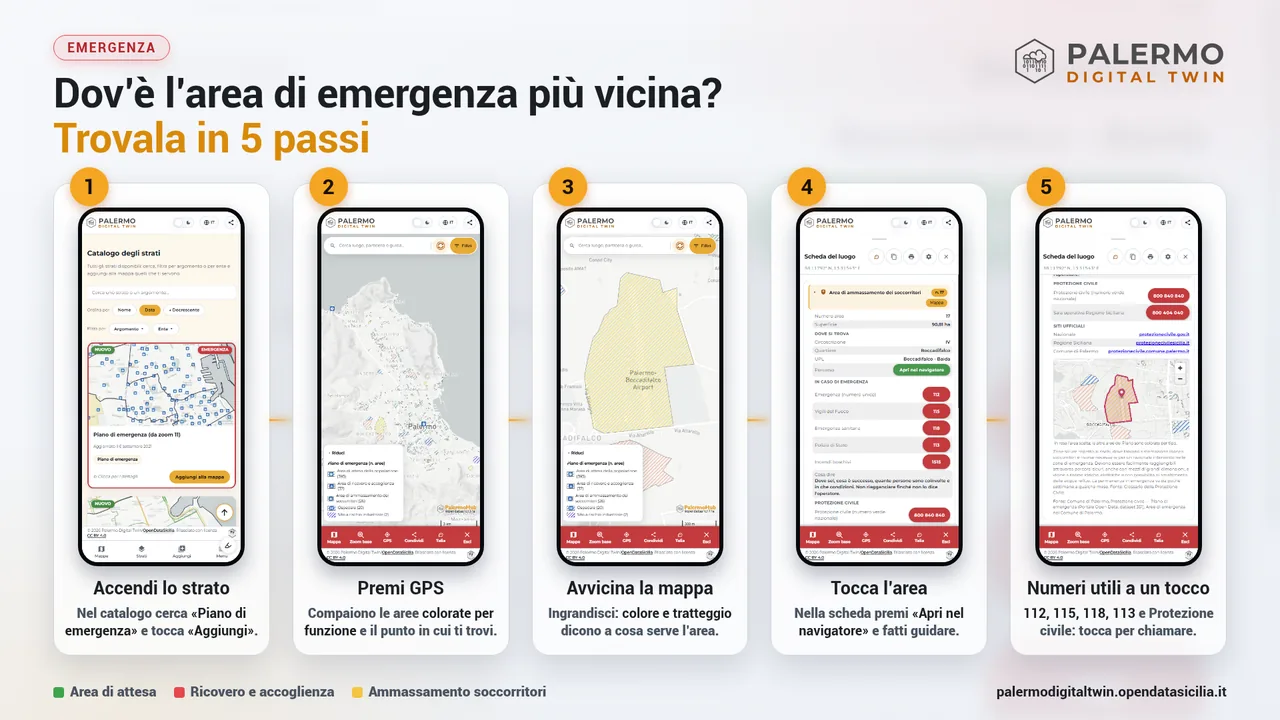
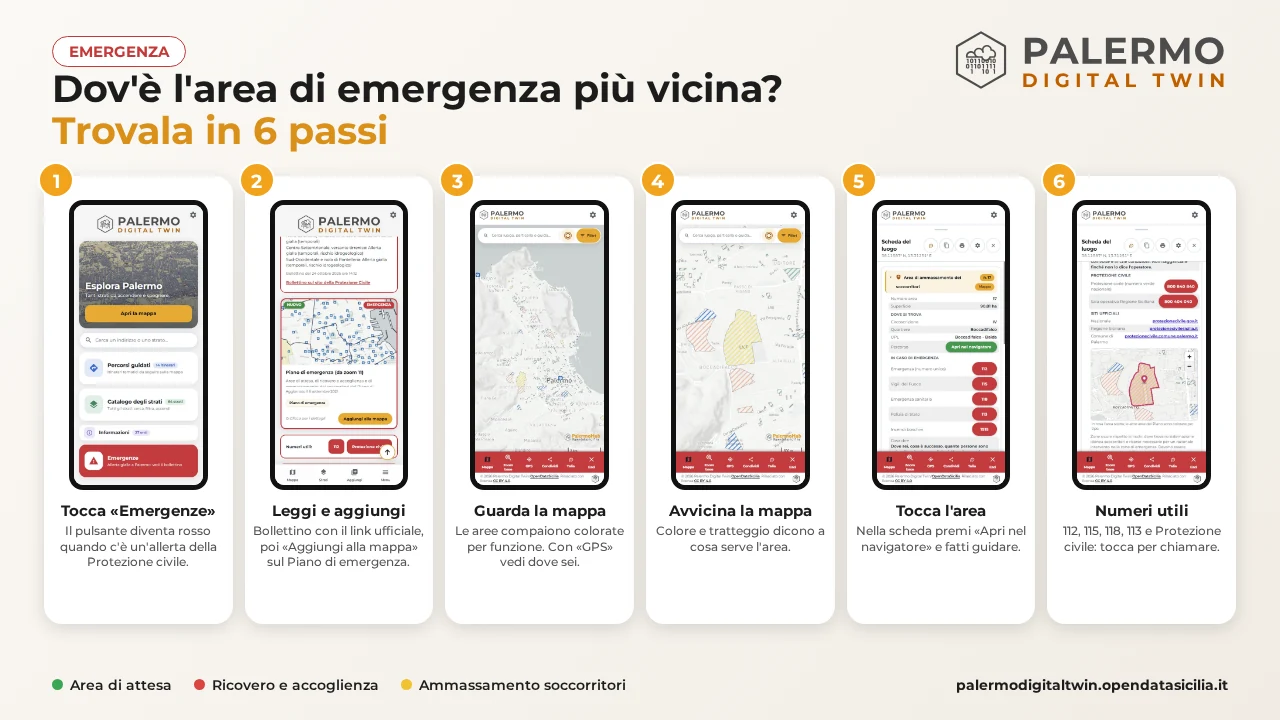
upgrade

diff --git a/js/core/emergenza-contenuti.js b/js/core/emergenza-contenuti.js
@@ -5,53 +5,62 @@ export const SEZIONI = [
     id: 'a-cosa-serve',
     titolo: 'A cosa serve',
     paragrafi: [
-      'La modalità emergenza serve a una cosa sola: **trovare in fretta**, dal telefono, **l\'area del Piano di emergenza** della Protezione civile più vicina a te e **farti guidare fin lì**. **Si accende da sola** quando sul telefono è acceso lo strato «Piano di emergenza»: l\'app si semplifica e restano solo gli strumenti utili.',
-      'Bastano **cinque passi**, qui sotto spiegati uno per uno con la schermata del telefono.',
+      'La modalità emergenza serve a una cosa sola: **trovare in fretta**, dal telefono, **l\'area del Piano di emergenza** della Protezione civile più vicina a te e **farti guidare fin lì**. Si parte dal pulsante **«Emergenze»** della home; sul telefono, quando lo strato «Piano di emergenza» è acceso, **l\'app si semplifica** e restano solo gli strumenti utili.',
+      'Bastano **sei passi**, qui sotto spiegati uno per uno con la schermata del telefono.',
     ],
-    immagine: { file: 'img/guida/passi/modalita-emergenza.webp', alt: 'Le cinque schermate della modalità emergenza in fila: il catalogo con lo strato Piano di emergenza, la mappa con le aree colorate e la barra rossa, l\'area ingrandita, la scheda con il pulsante «Apri nel navigatore» e i numeri utili con la mappa dell\'area.', didascalia: 'Le aree di emergenza in cinque passi, dal telefono.' },
+    immagine: { file: 'img/guida/passi/modalita-emergenza.webp', alt: 'Le sei schermate della modalità emergenza in fila: la home con il pulsante Emergenze, il pannello con il bollettino e lo strato Piano di emergenza, la mappa con le aree colorate e la barra rossa, l\'area ingrandita, la scheda con il pulsante «Apri nel navigatore» e i numeri utili con la mappa dell\'area.', didascalia: 'Le aree di emergenza in sei passi, dal telefono.' },
   },
   {
-    id: 'accendi-lo-strato',
-    titolo: '1. Accendi lo strato',
+    id: 'tocca-emergenze',
+    titolo: '1. Tocca «Emergenze»',
     paragrafi: [
-      'Nel catalogo degli strati cerca **«Piano di emergenza»** e tocca **«Aggiungi alla mappa»**. Sul telefono la **barra in basso diventa rossa** e ha solo sei pulsanti: **«Mappa»**, **«Zoom base»** (riporta la mappa su tutta Palermo), **«GPS»**, **«Condividi»**, **«Talia»** ed **«Esci»**.',
+      'Dalla home tocca il pulsante **«Emergenze»**, in fondo. Qui **arrivano le notifiche dei bollettini della Protezione civile**: quando a Palermo c\'è un\'allerta, **il pulsante diventa rosso** e il sottotitolo dice quale (per esempio «Allerta gialla a Palermo: vedi il bollettino»). Senza allerta resta bianco con il bordo rosso.',
+    ],
+    immagine: { file: 'img/guida/passi/modalita-emergenza-1-emergenze.webp', alt: 'La home sul telefono con il pulsante rosso «Emergenze» in fondo e il sottotitolo «Allerta gialla a Palermo: vedi il bollettino».', didascalia: 'Il pulsante «Emergenze» diventa rosso quando c\'è un\'allerta.' },
+  },
+  {
+    id: 'leggi-il-bollettino',
+    titolo: '2. Leggi il bollettino e aggiungi lo strato',
+    paragrafi: [
+      'Si apre il pannello. In cima trovi il **bollettino**: **il tipo di avviso** per ogni zona (per esempio «Allerta gialla (temporali, rischio idrogeologico)»), la data e l\'ora del bollettino e il link **«Bollettino sul sito della Protezione Civile»**, che apre **direttamente il sito ufficiale** della Protezione civile.',
+      'Più in basso c\'è la scheda **«Piano di emergenza»**: tocca **«Aggiungi alla mappa»**. Sul telefono la **barra in basso diventa rossa** e ha solo sei pulsanti: **«Mappa»**, **«Zoom base»** (riporta la mappa su tutta Palermo), **«GPS»**, **«Condividi»**, **«Talia»** ed **«Esci»**. Subito sotto ci sono i **numeri utili** (112 e Protezione civile) a un tocco.',
+    ],
+    immagine: { file: 'img/guida/passi/modalita-emergenza-2-bollettino.webp', alt: 'Il pannello Emergenze: in alto il bollettino con le zone di allerta e il link al sito della Protezione Civile, sotto la scheda «Piano di emergenza (da zoom 11)» con il pulsante «Aggiungi alla mappa» e i numeri utili.', didascalia: 'Leggi il bollettino, apri il link ufficiale e tocca «Aggiungi alla mappa».' },
+  },
+  {
+    id: 'guarda-la-mappa',
+    titolo: '3. Guarda la mappa',
+    paragrafi: [
+      'Sulla mappa compaiono le **aree, colorate per funzione**. Tocca **«GPS»** e **consenti l\'accesso alla posizione** per vedere **il punto in cui ti trovi** e capire quale area ti è più vicina.',
+      '**Verde**: area di attesa della popolazione, dove ci si raduna subito dopo l\'evento. **Rosso**: area di ricovero e accoglienza, dove si viene alloggiati. **Giallo**: area di ammassamento dei soccorritori. In blu e in viola ci sono gli **ospedali** e i **siti a rischio industriale**.',
       'Per tornare all\'app completa basta toccare **«Esci»** o **spegnere lo strato**.',
     ],
-    immagine: { file: 'img/guida/passi/modalita-emergenza-1-catalogo.webp', alt: 'Il catalogo degli strati sul telefono con la scheda «Piano di emergenza (da zoom 11)» e il pulsante «Aggiungi alla mappa».', didascalia: 'Nel catalogo cerca «Piano di emergenza» e tocca «Aggiungi alla mappa».' },
-  },
-  {
-    id: 'premi-gps',
-    titolo: '2. Premi «GPS»',
-    paragrafi: [
-      'Tocca **«GPS»** e **consenti l\'accesso alla posizione**. Sulla mappa compaiono le **aree, colorate per funzione**, e **il punto in cui ti trovi**; la **legenda** in basso a sinistra dice quante sono e a cosa servono.',
-      '**Verde**: area di attesa della popolazione, dove ci si raduna subito dopo l\'evento. **Rosso**: area di ricovero e accoglienza, dove si viene alloggiati. **Giallo**: area di ammassamento dei soccorritori. In blu e in viola ci sono gli **ospedali** e i **siti a rischio industriale**.',
-    ],
-    immagine: { file: 'img/guida/passi/modalita-emergenza-2-gps.webp', alt: 'La mappa di Palermo con le aree di emergenza colorate, la legenda con il numero di aree per tipo e la barra rossa in basso con i pulsanti Mappa, Zoom base, GPS, Condividi, Talia ed Esci.', didascalia: 'Compaiono le aree, colorate per funzione, e il punto in cui ti trovi.' },
+    immagine: { file: 'img/guida/passi/modalita-emergenza-3-mappa.webp', alt: 'La mappa di Palermo con le aree di emergenza colorate e tratteggiate e la barra rossa in basso con i pulsanti Mappa, Zoom base, GPS, Condividi, Talia ed Esci.', didascalia: 'Compaiono le aree, colorate per funzione, e la barra rossa.' },
   },
   {
     id: 'avvicina-la-mappa',
-    titolo: '3. Avvicina la mappa',
+    titolo: '4. Avvicina la mappa',
     paragrafi: [
-      'Avvicina la mappa all\'**area che ti sta più vicina**. Il **tratteggio** e il **colore** ti dicono a cosa serve; il nome al centro, per esempio «Palermo-Boccadifalco Airport», ti aiuta a riconoscerla.',
+      'Avvicina la mappa all\'**area che ti sta più vicina**. Il **tratteggio** e il **colore** ti dicono a cosa serve; il nome al centro, per esempio «LICP» (l\'aeroporto di Boccadifalco), ti aiuta a riconoscerla.',
     ],
-    immagine: { file: 'img/guida/passi/modalita-emergenza-3-zoom.webp', alt: 'La mappa avvicinata su un\'area gialla tratteggiata, l\'area di ammassamento dei soccorritori di Boccadifalco, con la legenda in basso a sinistra.', didascalia: 'Il colore e il tratteggio dicono a cosa serve l\'area.' },
+    immagine: { file: 'img/guida/passi/modalita-emergenza-4-zoom.webp', alt: 'La mappa avvicinata su Boccadifalco: un\'area gialla tratteggiata, l\'area di ammassamento dei soccorritori, circondata da aree rosse e blu, con la barra rossa in basso.', didascalia: 'Il colore e il tratteggio dicono a cosa serve l\'area.' },
   },
   {
     id: 'tocca-l-area',
-    titolo: '4. Tocca l\'area',
+    titolo: '5. Tocca l\'area',
     paragrafi: [
       'In questa modalità il tocco non apre il fumetto sulla mappa ma **solo la scheda di quell\'area**, a tutta altezza, senza le altre informazioni del punto. La scheda dice **il tipo di area** e il suo **numero**, la **superficie** e dove si trova (**circoscrizione, quartiere, UPL**).',
       'Il pulsante verde **«Apri nel navigatore»** apre l\'app di navigazione del telefono con il **percorso già impostato** fino all\'area: avvia le indicazioni e **segui la strada**.',
     ],
-    immagine: { file: 'img/guida/passi/modalita-emergenza-4-scheda.webp', alt: 'La scheda di un\'area di ammassamento dei soccorritori, con numero e superficie, circoscrizione, quartiere e UPL, il pulsante verde «Apri nel navigatore» e i numeri 112, 115, 118, 113 e 1515.', didascalia: 'Nella scheda premi «Apri nel navigatore» e fatti guidare.' },
+    immagine: { file: 'img/guida/passi/modalita-emergenza-5-scheda.webp', alt: 'La scheda di un\'area di ammassamento dei soccorritori, con numero e superficie, circoscrizione, quartiere e UPL, il pulsante verde «Apri nel navigatore» e i numeri 112, 115, 118, 113 e 1515.', didascalia: 'Nella scheda premi «Apri nel navigatore» e fatti guidare.' },
   },
   {
     id: 'numeri-utili',
-    titolo: '5. Numeri utili a un tocco',
+    titolo: '6. Numeri utili a un tocco',
     paragrafi: [
-      'Scorrendo la scheda trovi i **numeri utili** da chiamare con un tocco: **112** emergenza, **115** Vigili del Fuoco, **118** emergenza sanitaria, **113** Polizia di Stato, **1515** incendi boschivi, **800 840 840** Protezione civile. Più in basso ci sono i **siti ufficiali** e una piccola mappa con l\'area scelta evidenziata in **rosa** rispetto alle altre.',
+      'Scorrendo la scheda trovi i **numeri utili** da chiamare con un tocco: **112** emergenza, **115** Vigili del Fuoco, **118** emergenza sanitaria, **113** Polizia di Stato, **1515** incendi boschivi, **800 840 840** Protezione civile, **800 404 040** Sala operativa della Regione Siciliana. Più in basso ci sono i **siti ufficiali** e una piccola mappa con l\'area scelta evidenziata in **rosa** rispetto alle altre.',
       'In emergenza **valgono sempre le indicazioni della Protezione civile e delle autorità**.',
     ],
-    immagine: { file: 'img/guida/passi/modalita-emergenza-5-numeri.webp', alt: 'La parte bassa della scheda con i numeri della Protezione civile, i siti ufficiali e la piccola mappa con l\'area scelta evidenziata in rosa.', didascalia: 'Numeri utili, siti ufficiali e la mappa dell\'area scelta.' },
+    immagine: { file: 'img/guida/passi/modalita-emergenza-6-numeri.webp', alt: 'La parte bassa della scheda con i numeri della Protezione civile e della Sala operativa regionale, i siti ufficiali e la piccola mappa con l\'area scelta evidenziata in rosa.', didascalia: 'Numeri utili, siti ufficiali e la mappa dell\'area scelta.' },
   },
 ];

diff --git a/emergenza.html b/emergenza.html
@@ -18,7 +18,7 @@
 <meta property="og:image" content="https://palermodigitaltwin.opendatasicilia.it/img/social/social-card-emergenza.jpg">
 <meta property="og:image:width" content="1200">
 <meta property="og:image:height" content="675">
-<meta property="og:image:alt" data-i18n-content="emergenza.og.immagine" content="Dov'è l'area di emergenza più vicina? Trovala in 5 passi: cinque schermate del telefono con la modalità emergenza del Digital Twin di Palermo">
+<meta property="og:image:alt" data-i18n-content="emergenza.og.immagine" content="Dov'è l'area di emergenza più vicina? Trovala in 6 passi: sei schermate del telefono con la modalità emergenza del Digital Twin di Palermo">
 <meta name="twitter:card" content="summary_large_image">
 <link rel="apple-touch-icon" href="img/icona-192.png">
 <link rel="icon" href="img/favicon.ico" sizes="any">

diff --git a/sw.js b/sw.js
@@ -8,7 +8,7 @@
 //    10 minuti come impone GitHub Pages (max-age=600);
 //  - tutto il resto (altri siti, POST, file interi pesanti): non si tocca.
 // Per rilasciare una versione nuova basta cambiare VERSIONE: le cache vecchie si cancellano all'attivazione.
-const VERSIONE = 'dt-v438';
+const VERSIONE = 'dt-v439';
 const STATICA = `${VERSIONE}-statica`;
 const DATI = `${VERSIONE}-dati`;
 const INTERVALLI = `${VERSIONE}-intervalli`;

diff --git a/guida/63-piano-di-emergenza.md b/guida/63-piano-di-emergenza.md
@@ -21,12 +21,22 @@ Parole chiave: la mia posizione, dove mi trovo, raggiungere un'area, area più v
 
 Domande tipiche: Come faccio a vedere dove mi trovo rispetto alle aree? Come arrivo all'area di emergenza più vicina? Come trovo la strada per l'area di attesa? Come faccio a farmi guidare dal telefono fino a un'area della Protezione civile? Cosa devo fare in caso di terremoto o alluvione per sapere dove andare?
 
-In caso di emergenza bastano quattro passaggi:
+In emergenza, dal telefono, bastano sei passaggi:
 
-1. **Accendi lo strato «Piano di emergenza»** (gruppo «Eventi»): le aree compaiono sulla mappa.
-2. **Premi «La mia posizione»** nella barra degli strumenti e consenti l'accesso alla posizione quando il browser lo chiede: sulla mappa compare un punto che indica dove ti trovi, così capisci quale area ti è più vicina.
-3. **Tocca l'area più vicina a te**, sul poligono tratteggiato o sul suo simbolo blu: la scheda si apre sul tab **Luogo** e mostra **per prima** l'area che hai toccato, con l'intestazione evidenziata.
-4. **Tocca il pulsante verde «Apri nel navigatore»** (riga «Percorso») nella scheda dell'area: si apre l'app di navigazione del tuo smartphone (sul computer, il browser) con le indicazioni stradali già impostate verso quell'area. Avvia il percorso e segui le indicazioni.
+1. **Tocca «Emergenze»** nella home. Qui arrivano le notifiche dei bollettini della Protezione civile: quando a Palermo c'è un'allerta il pulsante **diventa rosso** e il sottotitolo dice quale (per esempio «Allerta gialla a Palermo: vedi il bollettino»); senza allerta resta bianco con il bordo rosso.
+2. **Leggi il bollettino** in cima al pannello: per ogni zona dice il **tipo di avviso** (allerta gialla, arancione o rossa, con i rischi: temporali, idrogeologico, idraulico), con data e ora del bollettino. Il link **«Bollettino sul sito della Protezione Civile»** apre direttamente il sito ufficiale. Poi, sulla scheda **«Piano di emergenza»**, tocca **«Aggiungi alla mappa»**: la barra in basso diventa rossa (modalità emergenza).
+3. **Guarda la mappa**: le aree compaiono colorate per funzione. Con **«GPS»** (consenti l'accesso alla posizione) compare un punto che indica dove ti trovi, così capisci quale area ti è più vicina.
+4. **Avvicina la mappa** all'area più vicina: il colore e il tratteggio dicono a cosa serve.
+5. **Tocca l'area**, sul poligono tratteggiato o sul suo simbolo blu: si apre la scheda di quell'area, con numero, superficie e dove si trova. **Tocca il pulsante verde «Apri nel navigatore»** (riga «Percorso»): si apre l'app di navigazione dello smartphone con le indicazioni già impostate verso quell'area. Avvia il percorso e segui le indicazioni.
+6. **Scorri la scheda** per i **numeri utili** (112, 115, 118, 113, 1515, Protezione civile), i siti ufficiali e la mappa con l'area scelta in rosa.
+
+## Il pulsante «Emergenze» e il bollettino della Protezione civile
+
+Parole chiave: pulsante Emergenze, bollettino, allerta, allerta gialla, arancione, rossa, avviso, notifica, protezione civile, pulsante rosso, link bollettino, criticità.
+
+Domande tipiche: Perché il pulsante Emergenze è rosso? Dove leggo che tipo di allerta c'è a Palermo? Come apro il bollettino della Protezione civile? Come arrivano gli avvisi?
+
+Nel pulsante **«Emergenze»** della home arrivano le **notifiche dei bollettini di criticità della Protezione civile** (Dipartimento della Protezione Civile, zone di allerta della Sicilia). Quando c'è un'allerta per Palermo il pulsante **diventa rosso** e nel sottotitolo compare il livello. Toccandolo si apre il pannello, dove si legge **il tipo di avviso** per ogni zona (livello e rischi) con data e ora del bollettino, e si può aprire il **link diretto al sito della Protezione civile** («Bollettino sul sito della Protezione Civile»). Nello stesso pannello ci sono la scheda del **Piano di emergenza** (pulsante «Aggiungi alla mappa») e i numeri utili.
 
 Per sapere a cosa serve ogni area, guarda il colore: **verde** area di attesa, **rosso** ricovero e accoglienza, **giallo** ammassamento dei soccorritori. In emergenza valgono sempre le indicazioni della Protezione civile e delle autorità.
 

diff --git a/guida/en/63-piano-di-emergenza.md b/guida/en/63-piano-di-emergenza.md
@@ -21,12 +21,22 @@ Keywords: my location, where am I, reach an area, nearest area, route, direction
 
 Typical questions: How do I see where I am relative to the areas? How do I get to the nearest emergency area? How do I find the way to the waiting area? How can my phone guide me to a Civil Protection area? What should I do in an earthquake or flood to know where to go?
 
-In an emergency, four steps are enough:
+In an emergency, from a phone, six steps are enough:
 
-1. **Turn on the «Emergency plan» layer** («Events» group): the areas appear on the map.
-2. **Press «My location»** in the toolbar and allow access to your location when the browser asks: a dot appears on the map showing where you are, so you can see which area is nearest.
-3. **Tap the area nearest to you**, on the hatched polygon or on its blue symbol: the profile opens on the **Place** tab and shows the area you tapped **first**, with its heading highlighted.
-4. **Tap the green «Open in navigation app» button** (the «Percorso» row) in the area's profile: your smartphone's navigation app (on a computer, the browser) opens with directions already set to that area. Start the route and follow the directions.
+1. **Tap «Emergencies»** on the home page. Civil Protection bulletin notifications arrive here: when there is an alert in Palermo the button **turns red** and the subtitle says which one (for example «Yellow alert in Palermo: see the bulletin»); with no alert it stays white with a red border.
+2. **Read the bulletin** at the top of the panel: for each zone it gives the **type of warning** (yellow, orange or red alert, with the risks: thunderstorms, hydrogeological, hydraulic), with the bulletin date and time. The **«Bulletin on the Civil Protection website»** link opens the official site directly. Then, on the **«Emergency plan»** card, tap **«Add to map»**: the bottom bar turns red (emergency mode).
+3. **Look at the map**: the areas appear coloured by function. With **«GPS»** (allow access to your location) a dot shows where you are, so you can see which area is nearest.
+4. **Zoom the map in** on the nearest area: colour and hatching tell you what it is for.
+5. **Tap the area**, on the hatched polygon or on its blue symbol: the card of that area opens, with number, surface and where it is. **Tap the green «Open in navigator» button** (the «Percorso» row): your smartphone's navigation app opens with directions already set to that area. Start the route and follow the directions.
+6. **Scroll the card** for the **useful numbers** (112, 115, 118, 113, 1515, Civil Protection), the official websites and the map with the chosen area in pink.
+
+## The «Emergencies» button and the Civil Protection bulletin
+
+Keywords: Emergencies button, bulletin, alert, yellow alert, orange, red, warning, notification, civil protection, red button, bulletin link, criticality.
+
+Typical questions: Why is the Emergencies button red? Where do I read what kind of alert there is in Palermo? How do I open the Civil Protection bulletin? How do warnings arrive?
+
+The home page **«Emergencies»** button receives the **Civil Protection criticality bulletin notifications** (Department of Civil Protection, Sicilian alert zones). When there is an alert for Palermo the button **turns red** and the subtitle shows the level. Tapping it opens the panel, where you read **the type of warning** for each zone (level and risks) with the bulletin date and time, and can open the **direct link to the Civil Protection website** («Bulletin on the Civil Protection website»). The same panel holds the **Emergency plan** card («Add to map» button) and the useful numbers.
 
 To know what each area is for, look at its colour: **green** waiting area, **red** shelter and reception, **yellow** rescuers' assembly. In an emergency, always follow the instructions of Civil Protection and the authorities.
 
